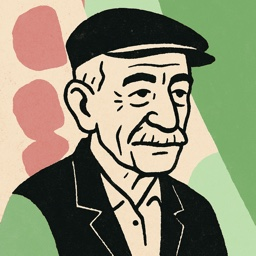
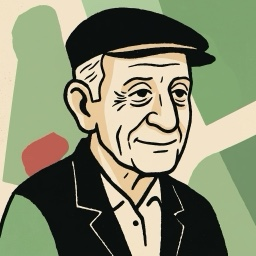
New Claudio and Claudia portraits, in honor of my grandparents
Both characters' portraits are now drawn from photos of my late
Italian-American grandparents, generated with Nano Banana in the same
screen-print style as the original Claudio: Claudio in my
great-grandfather's style of flat cap on sage green, Claudia with her
curls and gold-rimmed glasses on soft tomato red. Full-size versions
are assets/claudio-portrait.jpg and assets/claudia-portrait.jpg; the
placeholder SVG and the recolored original are gone. The source photos
stay out of the repo (.portrait-refs/ is ignored).

diff --git a/index.html b/index.html
@@ -56,7 +56,7 @@
                 </a>
                 <button class="persona-switch" id="persona-switch" type="button" aria-label="Switch to Claudia" title="Switch to Claudia">
                     <img src="assets/claudio-avatar.jpg" alt="" data-persona="claudio" class="active">
-                    <img src="assets/claudia-avatar.svg" alt="" data-persona="claudia">
+                    <img src="assets/claudia-avatar.jpg" alt="" data-persona="claudia">
                 </button>
                 <button class="icon-btn only-mobile" id="close-sidebar" type="button" aria-label="Close sidebar">
                     <svg viewBox="0 0 24 24"><path d="M6 6l12 12M18 6L6 18" /></svg>
@@ -93,7 +93,7 @@
 
             <div class="scroller" id="scroller">
                 <section class="empty loading" id="empty">
-                    <img src="assets/claudio-avatar.jpg" alt="Illustrated portrait of Claudio in a flat cap" class="empty-avatar" id="empty-avatar">
+                    <img src="assets/claudio-avatar.jpg" alt="Illustrated portrait of Claudio, an older man with a kind smile in a black flat cap and vest" class="empty-avatar" id="empty-avatar">
                     <h2 class="empty-title" id="empty-title">Ciao! What're we cookin' today?</h2>
                     <p class="empty-sub" id="empty-sub">Code, homework, dinner plans, or just some company. Pull up a chair.</p>
                     <div class="suggestions" id="suggestions">

diff --git a/personas.js b/personas.js
@@ -8,7 +8,7 @@ export const PERSONAS = {
         he: 'he',
         him: 'him',
         avatar: 'assets/claudio-avatar.jpg',
-        avatarAlt: 'Illustrated portrait of Claudio in a flat cap',
+        avatarAlt: 'Illustrated portrait of Claudio, an older man with a kind smile in a black flat cap and vest',
         themeColor: { light: '#f3eee4', dark: '#1b1a17' },
         welcome: {
             greeting: 'Ciao! What\'re we cookin\' today?',
@@ -26,8 +26,8 @@ export const PERSONAS = {
         name: 'Claudia',
         he: 'she',
         him: 'her',
-        avatar: 'assets/claudia-avatar.svg',
-        avatarAlt: 'Illustrated portrait of Claudia with her hair in a bun and gold hoop earrings',
+        avatar: 'assets/claudia-avatar.jpg',
+        avatarAlt: 'Illustrated portrait of Claudia, an older woman with curly gray hair, gold-rimmed glasses and a warm smile',
         themeColor: { light: '#f3eee4', dark: '#1b1a17' },
         welcome: {
             greeting: 'Ciao, bella! Come on in.',

diff --git a/README.md b/README.md
@@ -31,7 +31,10 @@ in `styles.css`, `functions/prompt.js`). A conversation stays with whoever
 it started with: every chat records its character, the sidebar shows their
 avatar, and opening a chat switches the page to that character. Toggling in
 the middle of a conversation starts a new chat with the other one and keeps
-whatever you'd typed.
+whatever you'd typed. Their portraits are an homage to my late
+Italian-American grandparents, drawn with Nano Banana from family photos in
+the same screen-print style as the original Claudio, with my great-grandfather's
+flat cap on Claudio.
 
 **The page** is plain HTML, CSS and ES modules (`app.js`, `store.js`,
 `account.js`, `sync.js`, `personas.js`). No framework, no build step. It looks like a normal chat app: a sidebar of past
@@ -249,7 +252,7 @@ personas.js       client: the two characters (name, avatar, theme, fallback welc
 sync.js           client: mirrors signed-in users' chats to Firestore and Storage
 store.js          chats and sync bookkeeping in IndexedDB
 styles.css        layout, light/dark themes, Claudia's palette
-assets/           Claudio portrait + small avatar, Claudia avatar (SVG), logo, social card
+assets/           Claudio and Claudia portraits + small avatars, logo, social card
 functions/        index.js (claudioChat, api, stripeWebhook), access.js (who pays),
                   keyCrypto.js (saved-key encryption), prompt.js (both characters),
                   welcome.js (daily welcome messages)
